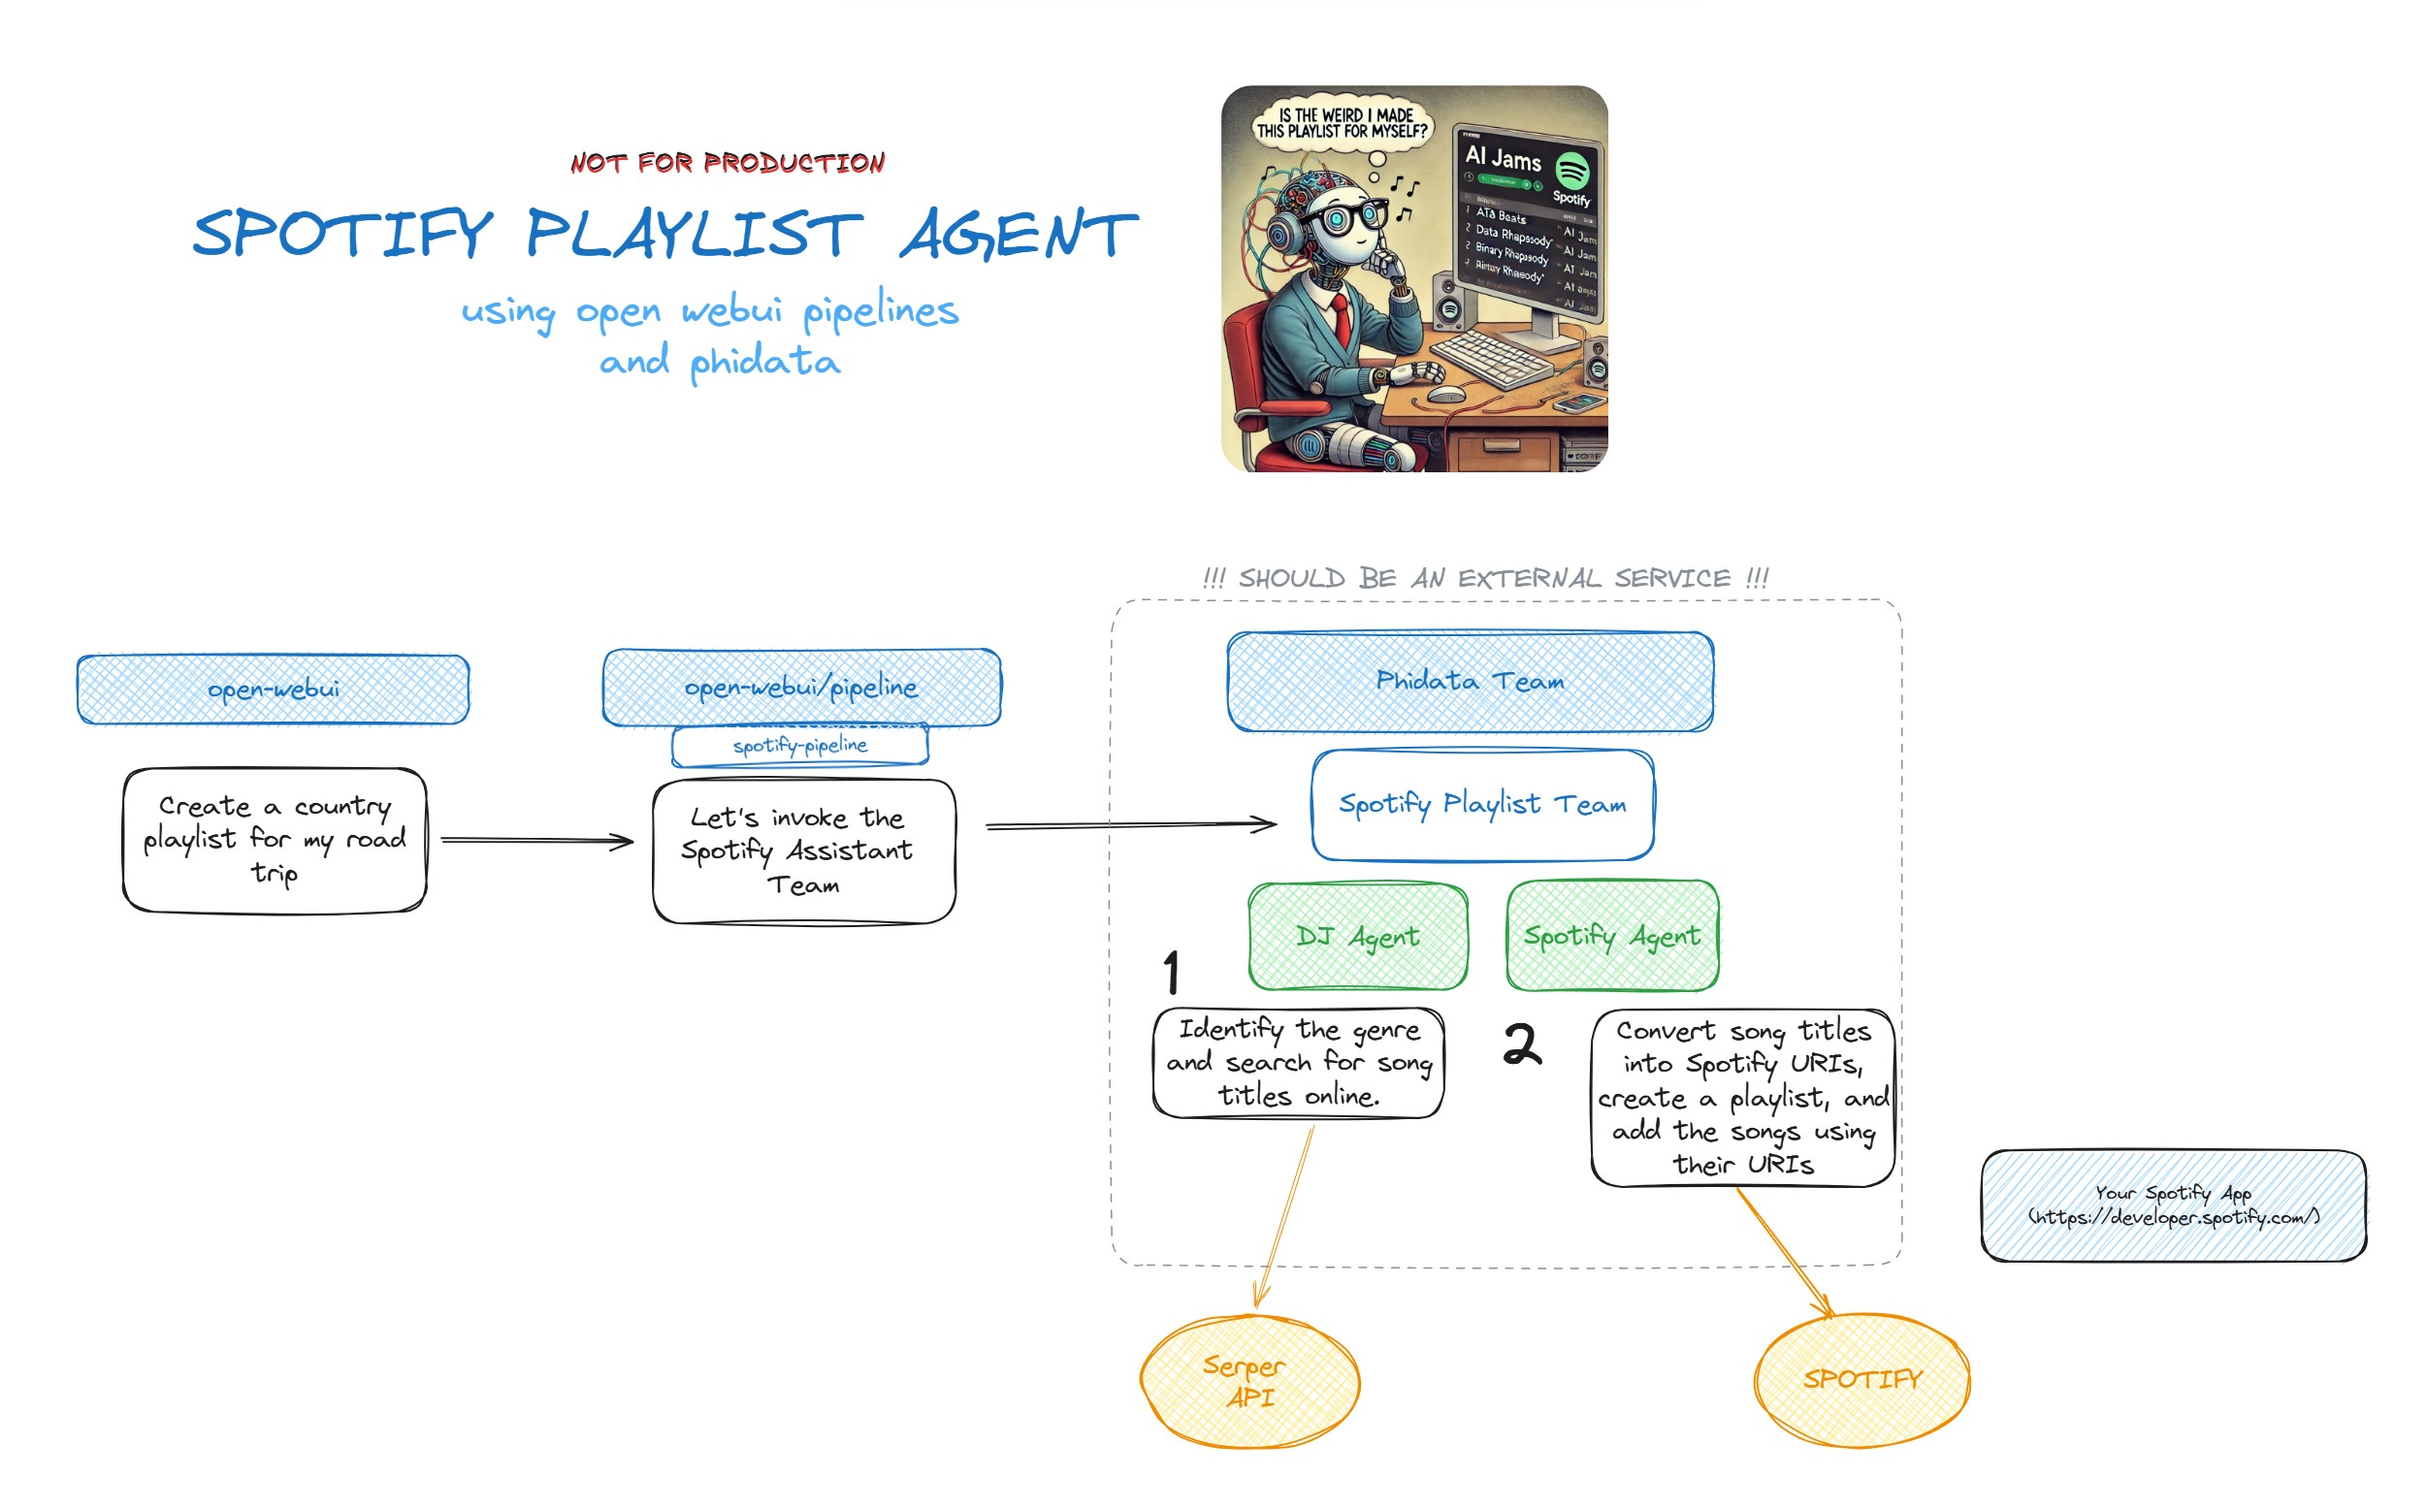
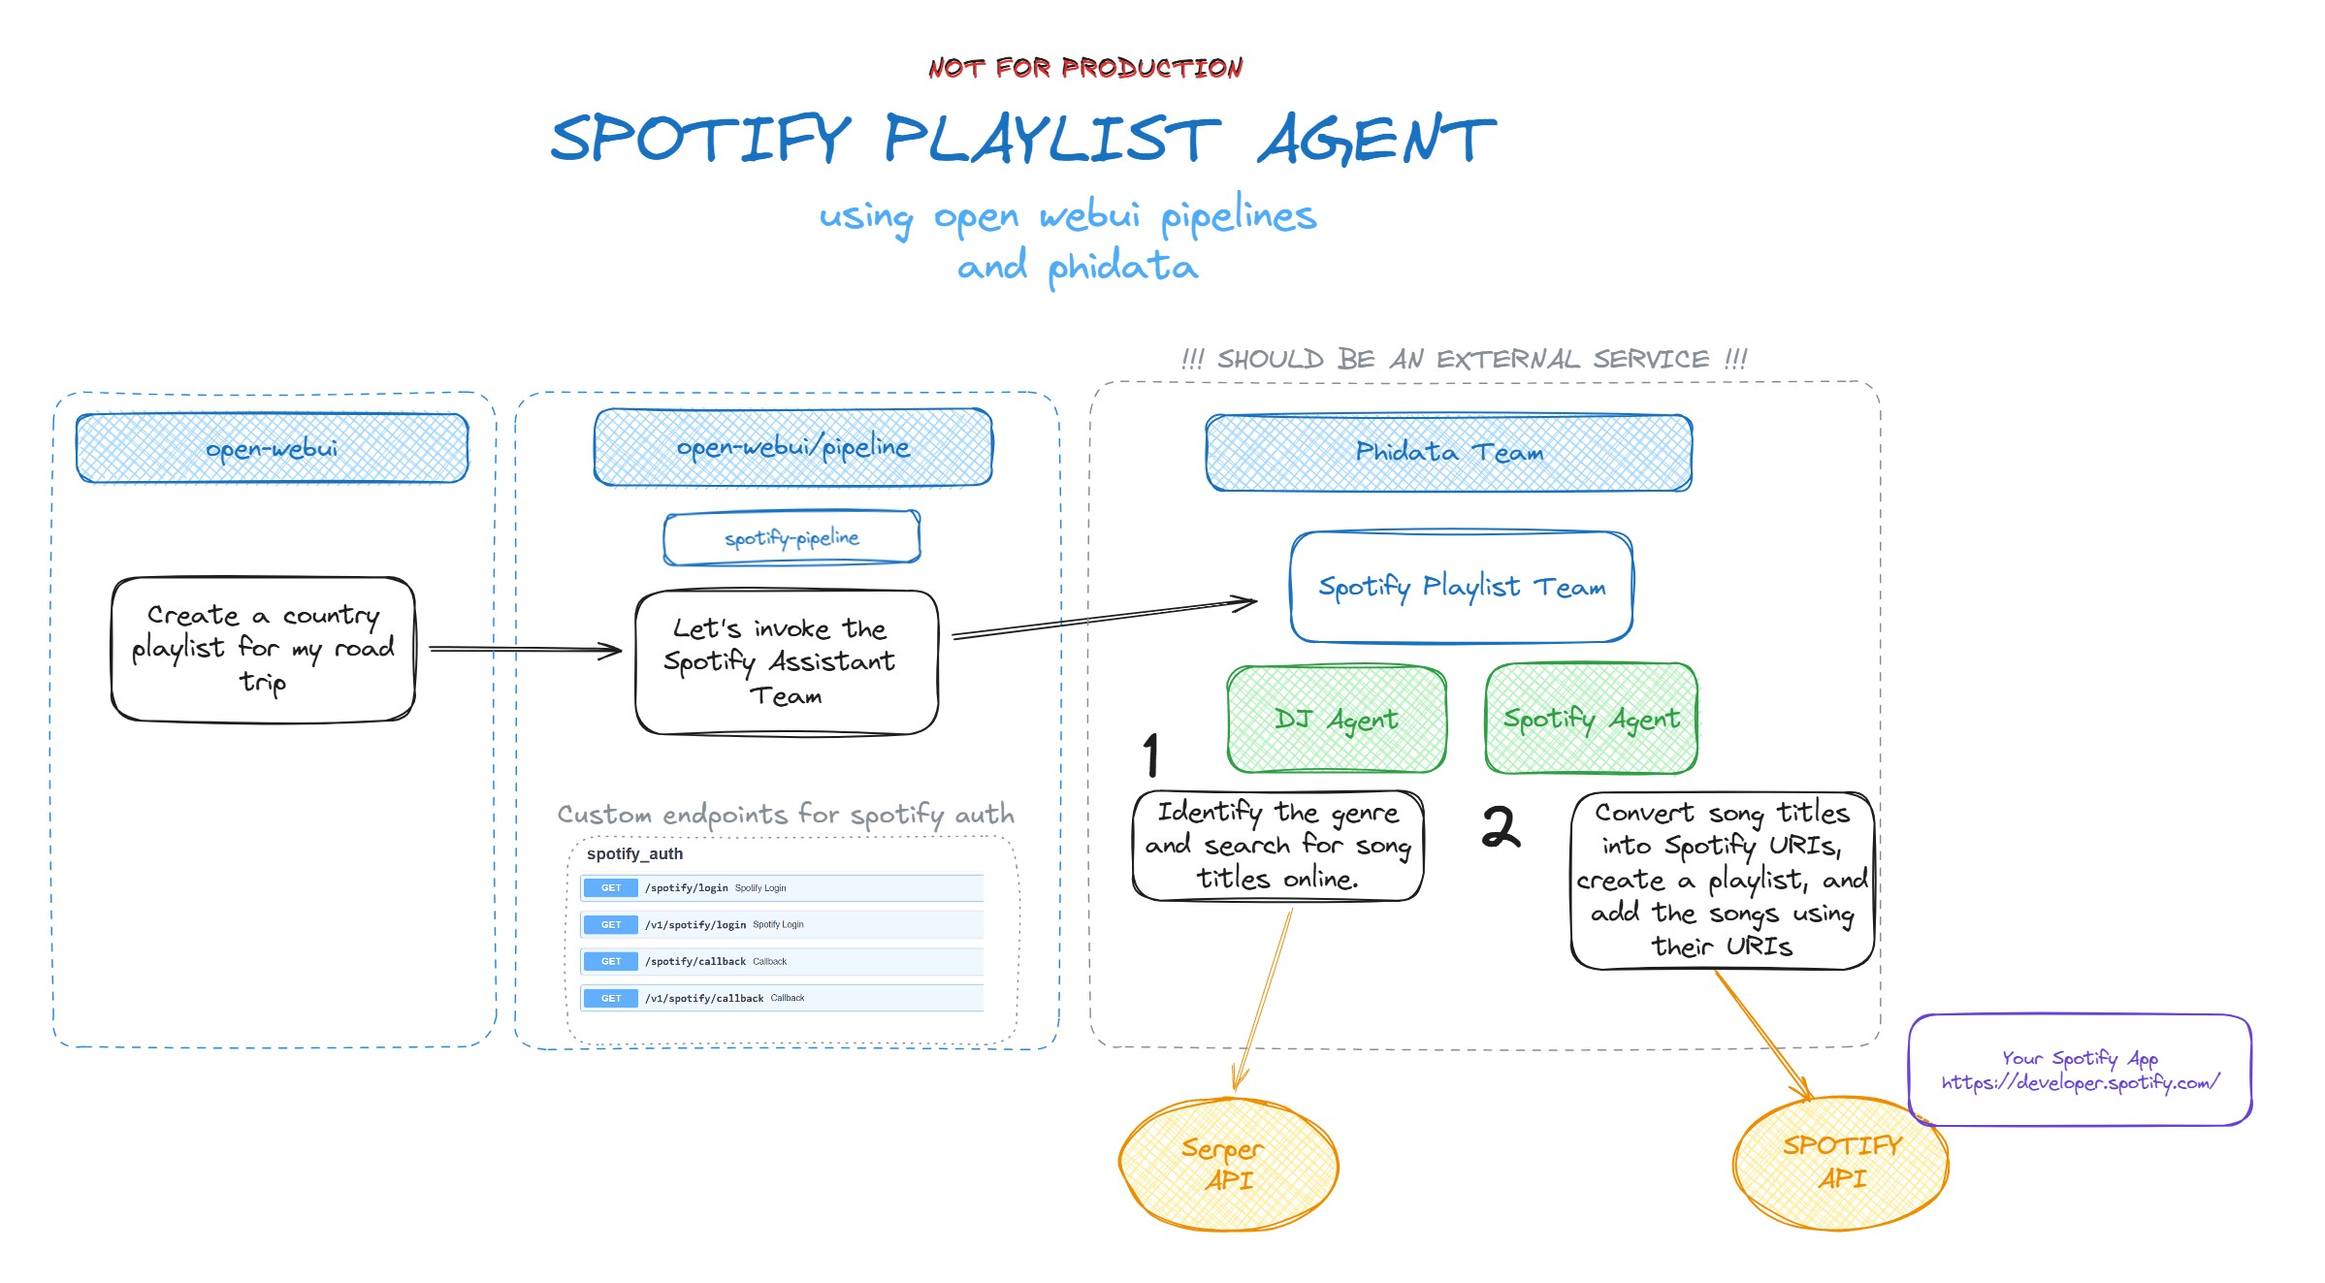
updated overview

Changed region(s): [[0.0309, 0.031, 0.9879, 0.9607], [0.0309, 0.3099, 0.2161, 0.4029]]

diff --git a/Overview.md b/Overview.md
@@ -1,3 +1,7 @@
+<div style="text-align: center;">
+  <img src="assets/funny.jpg" alt="Schema" width="300">
+</div>
+
 ![Schema](assets/schema.jpg)
 
 ### Notes and Caveats
